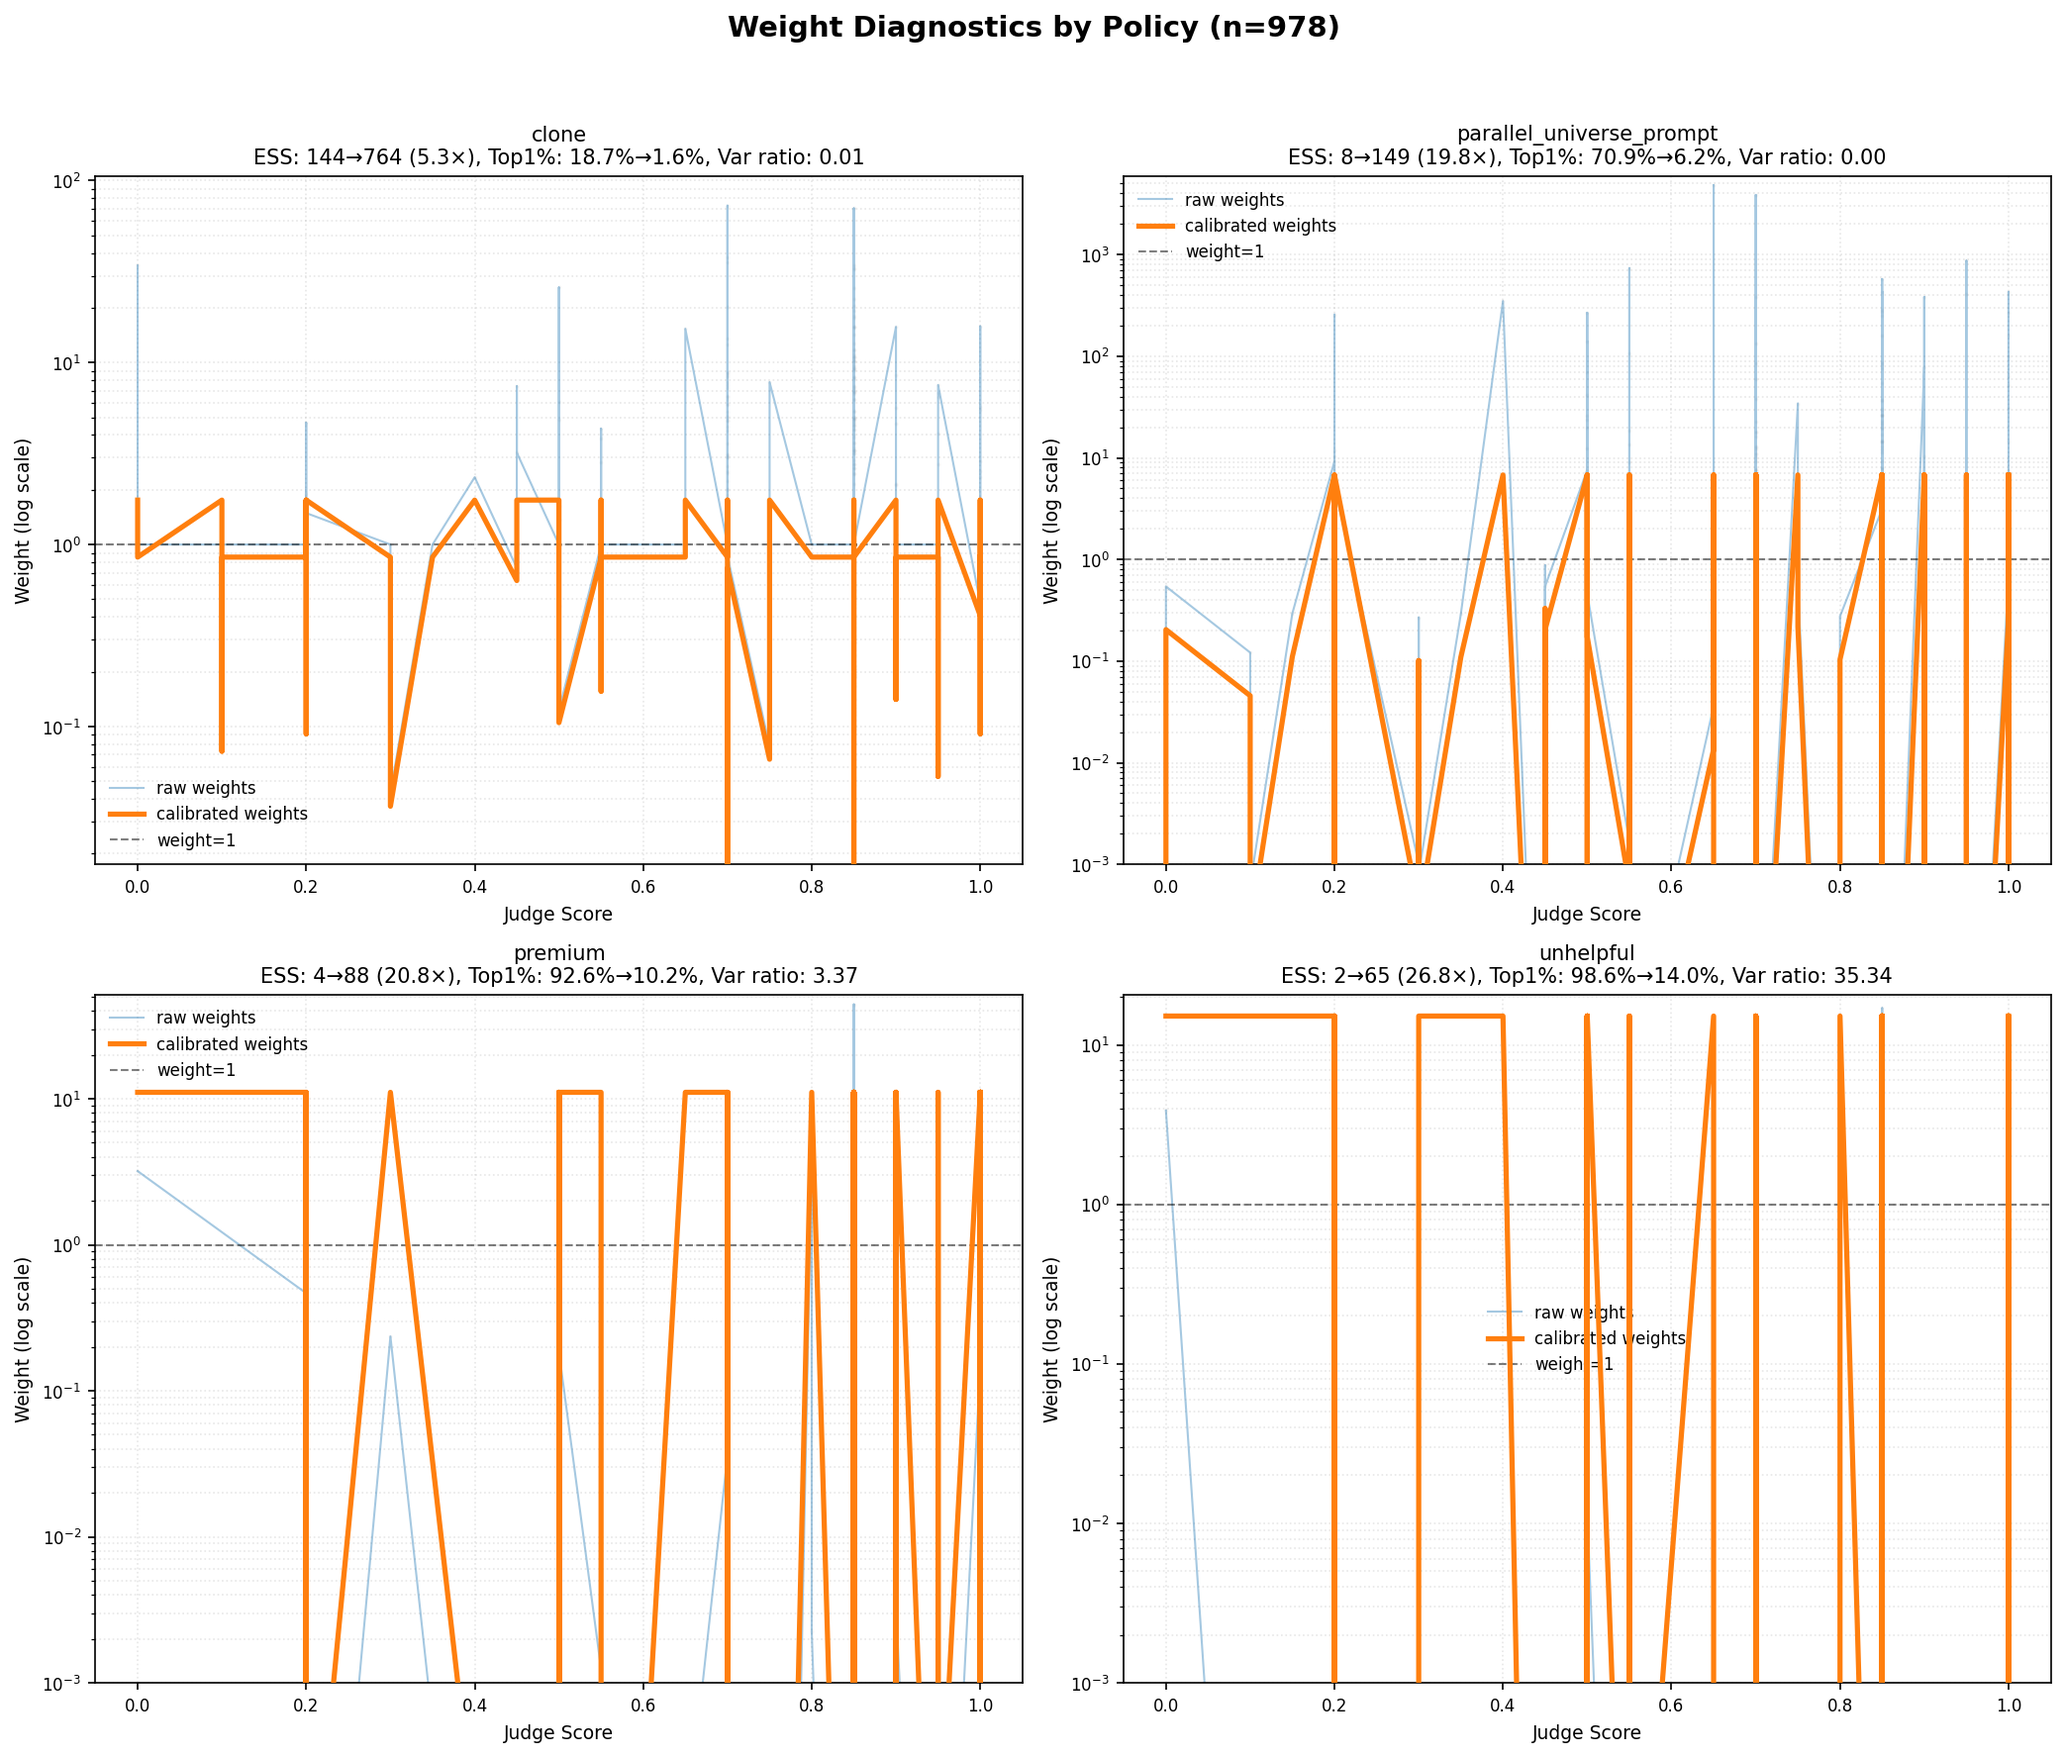
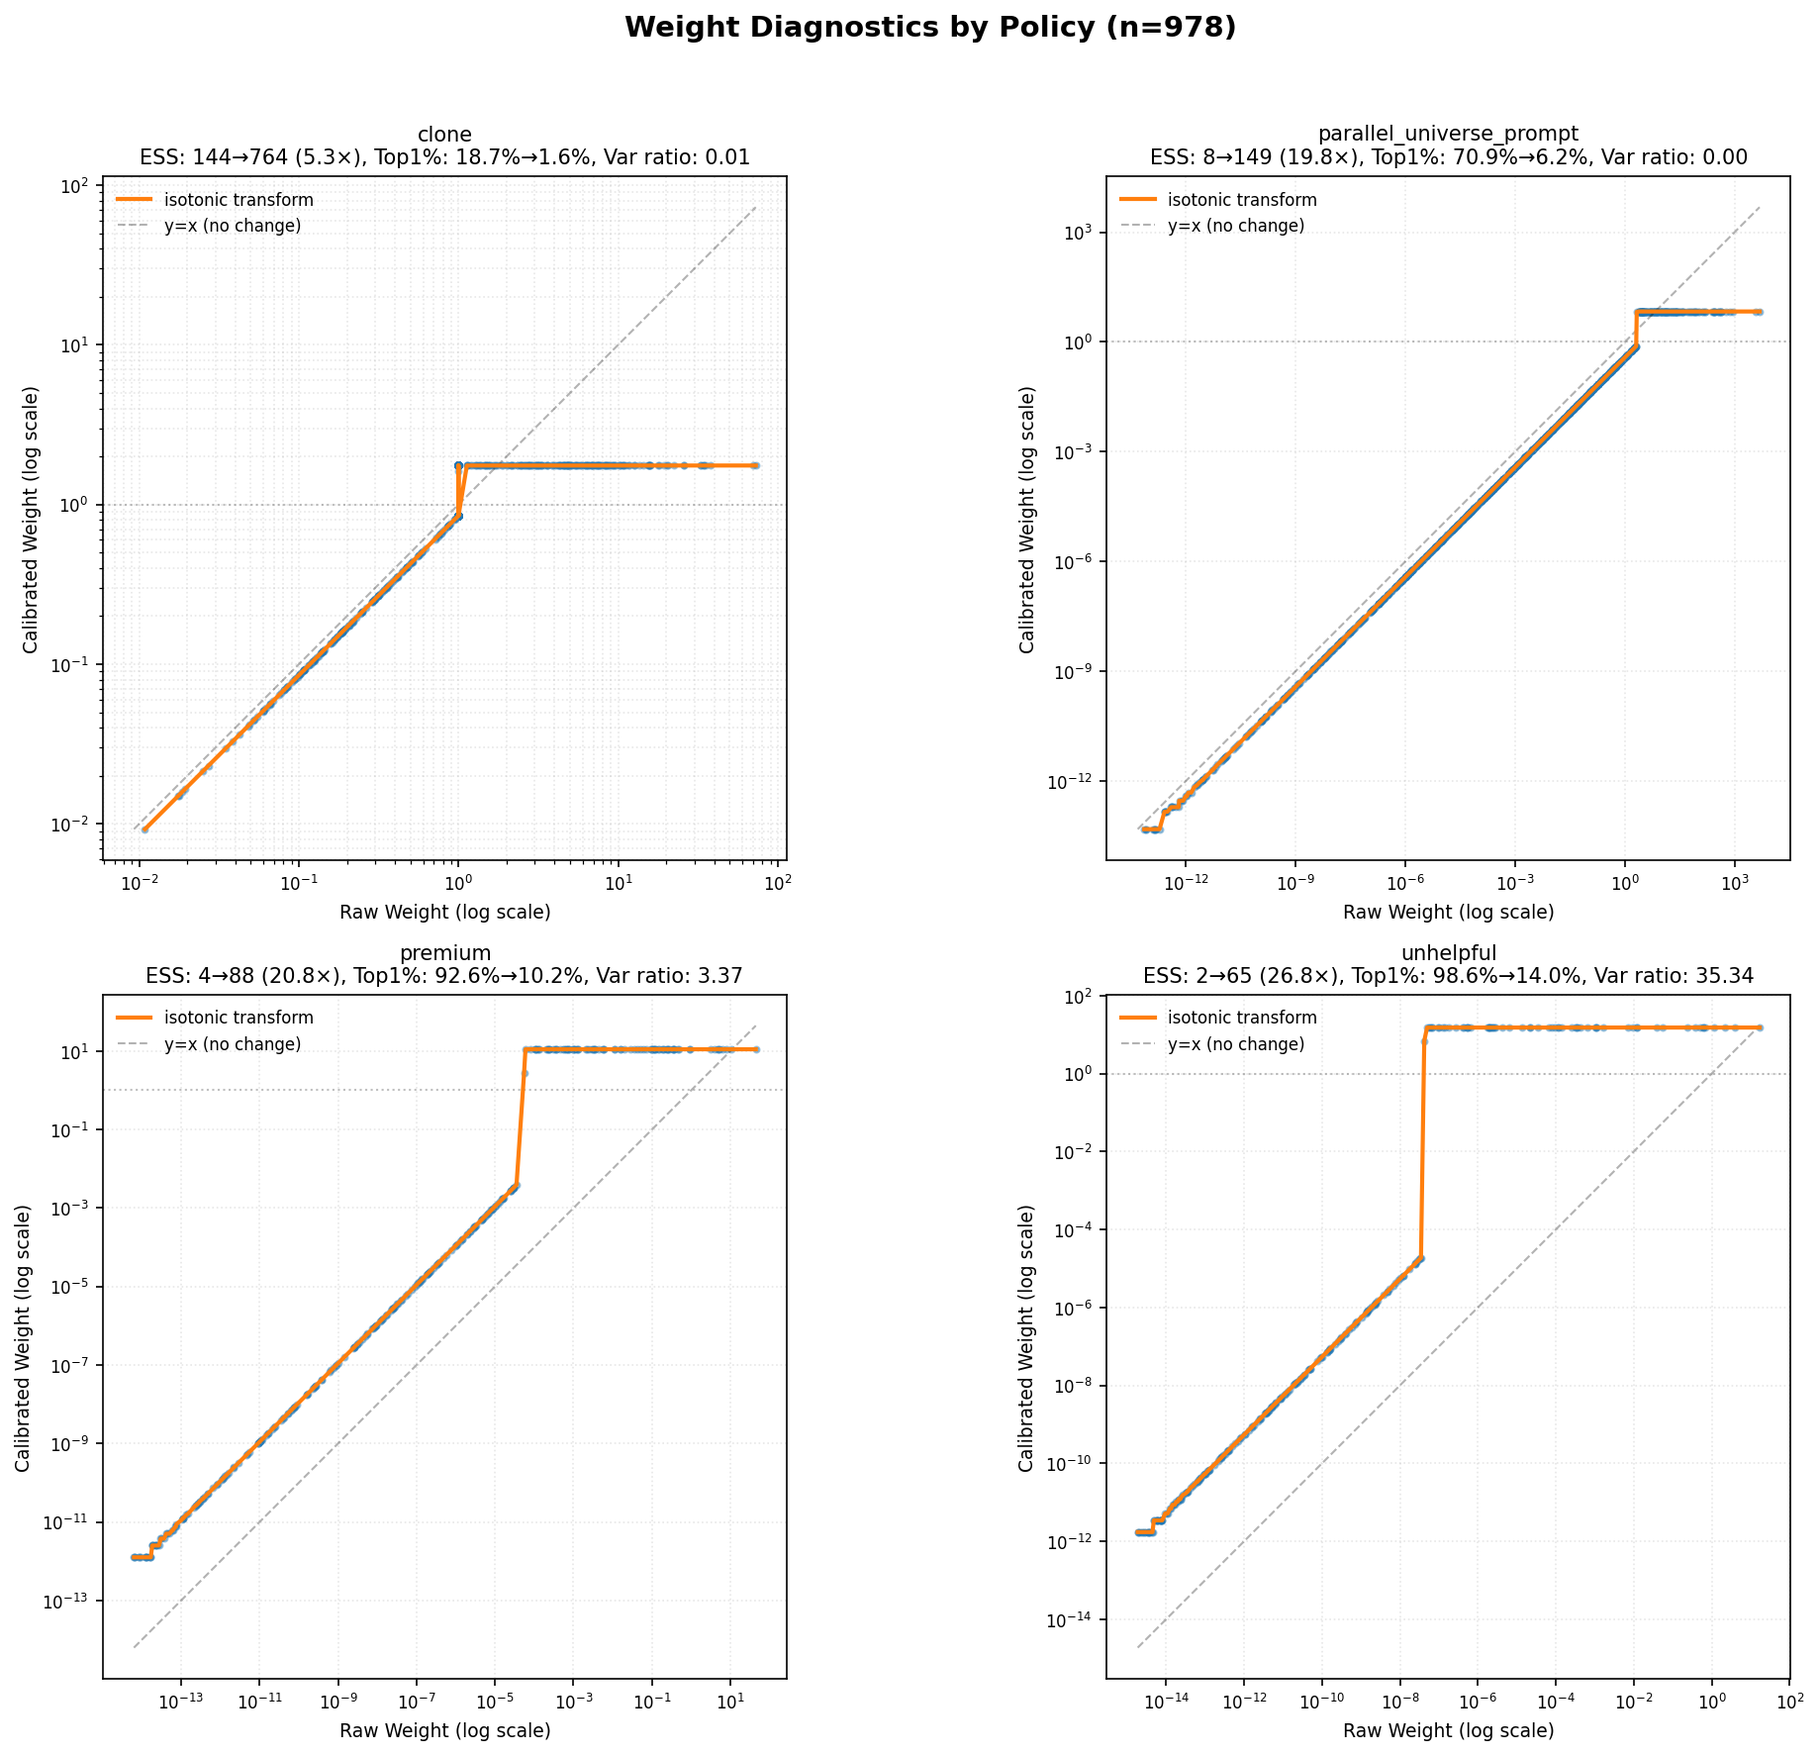
fix: Show actual isotonic transformation in weight visualization
- Plot calibrated vs raw weights instead of weights vs judge scores
- This reveals the true isotonic staircase pattern of weight calibration
- IPS weights are functions of log-prob ratios, not judge scores
- The isotonic regression operates on raw weights, not scores

The visualization now correctly shows how calibration transforms the
weight distribution through isotonic regression, with clear staircase
patterns visible in the calibrated weights.

🤖 Generated with [Claude Code](https://claude.ai/code)

diff --git a/cje/visualization/dashboards.py b/cje/visualization/dashboards.py
@@ -213,7 +213,7 @@ def _plot_single_policy_weight_smoothing(
     top1_raw: float,
     top1_cal: float,
 ) -> None:
-    """Plot weight smoothing by judge score for a single policy - direct curves."""
+    """Plot calibrated vs raw weights showing isotonic transformation."""
 
     # Filter to valid values
     mask = (
@@ -223,80 +223,75 @@ def _plot_single_policy_weight_smoothing(
         & (raw_w > 0)
         & (cal_w > 0)
     )
-    S = judge_scores[mask]
     W_raw = raw_w[mask]
     W_cal = cal_w[mask]
 
-    n = len(S)
+    n = len(W_raw)
 
-    # Sort by judge score for plotting curves
-    sort_idx = np.argsort(S)
-    S_sorted = S[sort_idx]
+    # Sort by raw weights to show the isotonic transformation
+    sort_idx = np.argsort(W_raw)
     W_raw_sorted = W_raw[sort_idx]
     W_cal_sorted = W_cal[sort_idx]
 
-    # Plot raw weights as thin line or scatter depending on size
+    # Plot the transformation curve
     if n > 5000:
-        # For large datasets, subsample then plot in sorted order
-        # We need to subsample from the original arrays, then sort the subsample
-        subsample_idx = np.random.RandomState(42).choice(n, min(2000, n), replace=False)
-        S_sub = S[subsample_idx]
-        W_raw_sub = W_raw[subsample_idx]
-        # Now sort the subsample by judge score
-        sub_sort_idx = np.argsort(S_sub)
+        # Subsample for visibility but maintain order
+        step = max(1, n // 2000)
+        indices = np.arange(0, n, step)
         ax.plot(
-            S_sub[sub_sort_idx],
-            W_raw_sub[sub_sort_idx],
-            alpha=0.3,
-            color="C0",
-            linewidth=0.5,
-            label="raw weights",
+            W_raw_sorted[indices],
+            W_cal_sorted[indices],
+            color="C1",
+            linewidth=2,
+            label="isotonic transform",
+            zorder=10,
         )
     else:
-        # For smaller datasets, plot all points as a line
         ax.plot(
-            S_sorted,
             W_raw_sorted,
-            alpha=0.4,
-            color="C0",
-            linewidth=1,
-            label="raw weights",
+            W_cal_sorted,
+            color="C1",
+            linewidth=2,
+            label="isotonic transform",
+            zorder=10,
         )
 
-    # Plot calibrated weights as thicker solid line
-    # This will show the staircase pattern from isotonic regression
+    # Add identity line for reference
+    max_val = max(W_raw.max(), W_cal.max())
+    min_val = min(W_raw.min(), W_cal.min())
     ax.plot(
-        S_sorted,
-        W_cal_sorted,
-        color="C1",
-        linewidth=2.5,
-        label="calibrated weights",
-        zorder=10,
+        [min_val, max_val],
+        [min_val, max_val],
+        "k--",
+        alpha=0.3,
+        linewidth=1,
+        label="y=x (no change)",
     )
 
-    # Optional: Add faint scatter for raw weights to show density
-    if n <= 10000:
-        ax.scatter(S, W_raw, s=1, alpha=0.05, color="gray", rasterized=True)
+    # Add horizontal line at y=1 (target mean)
+    ax.axhline(1.0, color="gray", linestyle=":", alpha=0.5, linewidth=1)
 
-    # Set log scale for y-axis
+    # Add scatter points to show density
+    if n > 1000:
+        # Subsample for scatter
+        subsample_idx = np.random.RandomState(42).choice(n, min(500, n), replace=False)
+        ax.scatter(
+            W_raw[subsample_idx],
+            W_cal[subsample_idx],
+            s=5,
+            alpha=0.3,
+            color="C0",
+            rasterized=True,
+        )
+    else:
+        ax.scatter(W_raw, W_cal, s=8, alpha=0.4, color="C0")
+
+    # Set log scale for both axes
+    ax.set_xscale("log")
     ax.set_yscale("log")
 
-    # Set sensible limits
-    y_cap_q = 0.999
-    ymax = np.quantile(W_raw[W_raw > 0], y_cap_q)
-    ymin = max(1e-3, np.quantile(W_raw[W_raw > 0], 0.001))
-    ax.set_ylim(ymin, ymax * 1.5)  # Add some headroom
-
-    # Reference line at y=1 (mean-one reference)
-    ax.axhline(
-        1.0,
-        color="black",
-        linestyle="--",
-        alpha=0.5,
-        linewidth=1,
-        label="weight=1",
-        zorder=5,
-    )
+    # Set equal aspect ratio region
+    ax.set_aspect("equal", adjustable="box")
 
     # Compute variance ratio for annotation
     var_ratio = np.var(W_cal) / np.var(W_raw) if np.var(W_raw) > 0 else 0
@@ -309,8 +304,8 @@ def _plot_single_policy_weight_smoothing(
         f"Var ratio: {var_ratio:.2f}",
         fontsize=10,
     )
-    ax.set_xlabel("Judge Score", fontsize=9)
-    ax.set_ylabel("Weight (log scale)", fontsize=9)
+    ax.set_xlabel("Raw Weight (log scale)", fontsize=9)
+    ax.set_ylabel("Calibrated Weight (log scale)", fontsize=9)
     ax.legend(loc="best", fontsize=8, frameon=False)
     ax.grid(True, alpha=0.3, which="both", linestyle=":")
     ax.tick_params(labelsize=8)
